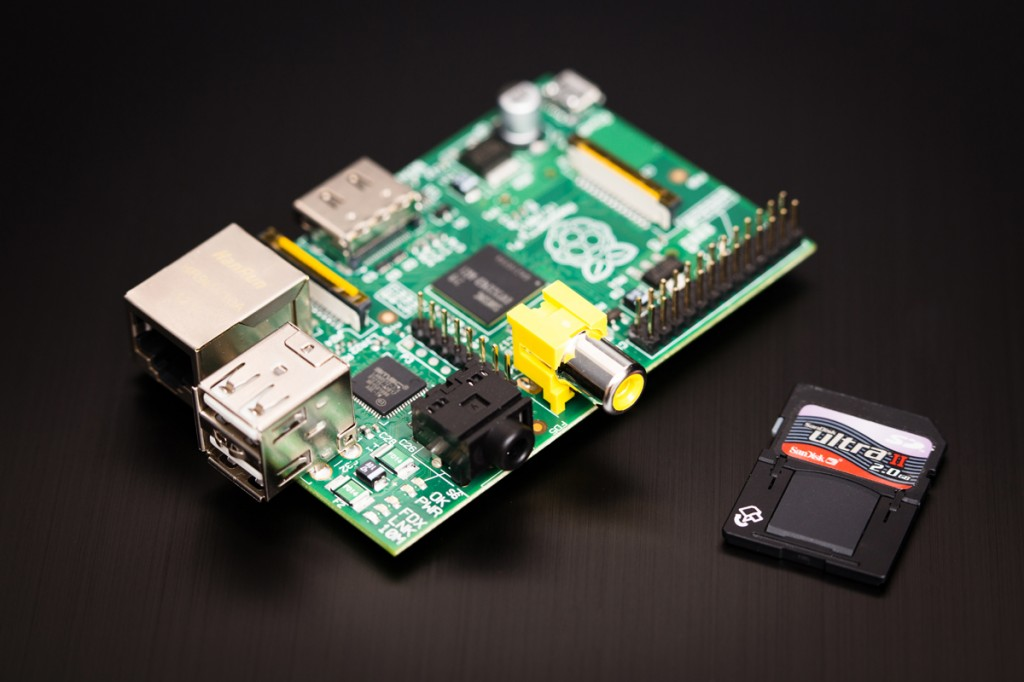
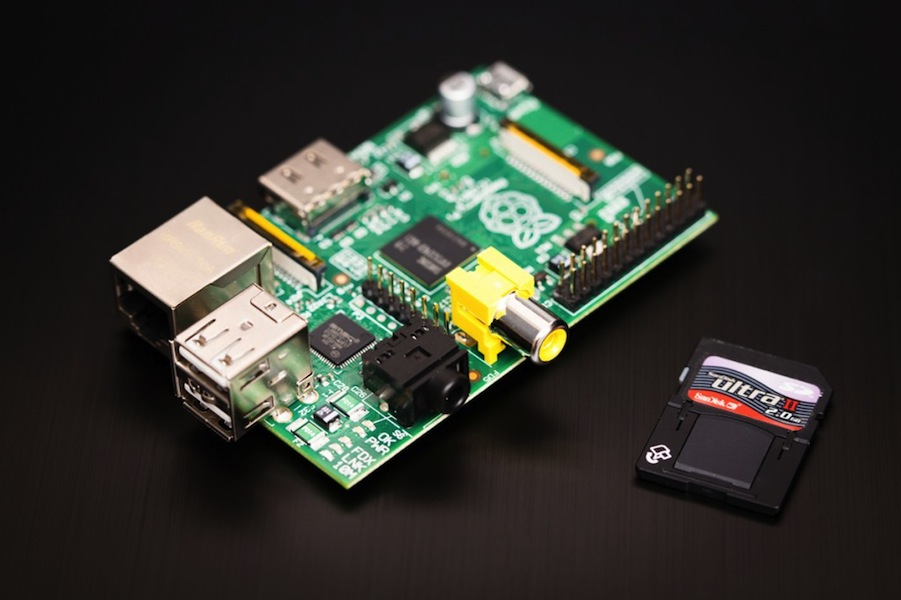
Adding more content. Resizing images

diff --git a/beverage-o-meter/02_hardware.md b/beverage-o-meter/02_hardware.md
@@ -11,27 +11,42 @@
 * **USB:** 2 2.0 Ports
 * **Cost:** $35 USD
 
-!SLIDE full-page
+!SLIDE  full-page
 
-<img src="Raspi_Colour_R.png" height="75%" />
-
-!SLIDE full-page
-
-<img src="model_b.jpg" height="75%" />
+![Raspi_Colour_R](Raspi_Colour_R.png)
 
 !SLIDE full-page
 
-<img src="RaspiModelB.png" height="75%" />
+<img src="model_b.jpg" width="75%" />
+
+!SLIDE
+
+<!--<img src="RaspiModelB.png" style="width: 75%" />-->
+![RaspiModelB](RaspiModelB.png)
 
 !SLIDE full-page
 
-<img src="quick_start.png" height="75%" />
+<img src="quick_start.png" width="75%" />
+
+!SLIDE
+
+# No Case.. #
+
+## but Alex **Barratt** Made one for me though with his... ##
+
+# 3D Printer #
+
+!SLIDE
+
+# Thanks Barratt #
+
+![Case](case.jpeg)
 
 !SLIDE
 
 # Should I get a Raspberry PI? #
 
-!SLIDE bullets incremental transition=fade
+!SLIDE
 
 # Yes, you should get a Raspberry PI. #
 

diff --git a/beverage-o-meter/01_beverage_o_meter_intro.md b/beverage-o-meter/01_beverage_o_meter_intro.md
@@ -2,7 +2,7 @@
 
 # What does this "beverage-o-meter" do? #
 
-!SLIDE bullets incremental transition=fade
+!SLIDE bullets
 
 * Scans in bar codes.
 * Stores the scans in a database.
@@ -12,7 +12,7 @@
 
 # What is it made out of? #
 
-!SLIDE bullets incremental transition=fade
+!SLIDE bullets
 
 # Parts #
 
@@ -28,7 +28,7 @@
 
 # Really, that's it? #
 
-!SLIDE bullets incremental transition=fade
+!SLIDE bullets
 
 # Other Parts That Were Needed #
 
@@ -40,7 +40,9 @@
 
 !SLIDE
 
-# What exactly is this Rasberry PI? #
+## What exactly is this...##
+
+# "Rasberry PI?"" #
 
 
 

diff --git a/beverage-o-meter/03_software.md b/beverage-o-meter/03_software.md
@@ -1,5 +1,7 @@
 !SLIDE
 
+### Back to this beverage-o-meter thing... ###
+
 # What sort of softare is needed? #
 
 !SLIDE bullets
@@ -11,13 +13,15 @@
 * sqlite
 * tmux
 * wicd (WIFI Management)
-* lighttpd
+* lighttpd (webserver)
 
 !SLIDE
 
-Followed the instructions on the RaspberyPI site to install "wheezy".
+# Very Easy #
 
-Installed everything else via apt-get and python's package manager pip.
+## FTM on the RaspberyPI site to install "wheezy". ##
+
+## Everything else via apt-get and pip. ##
 
 !SLIDE
 

diff --git a/README.rst b/README.rst
@@ -1,7 +1,6 @@
 Open Hardware
 =============
 
-
 2012 Clockwork Unconference
 ---------------------------
 
